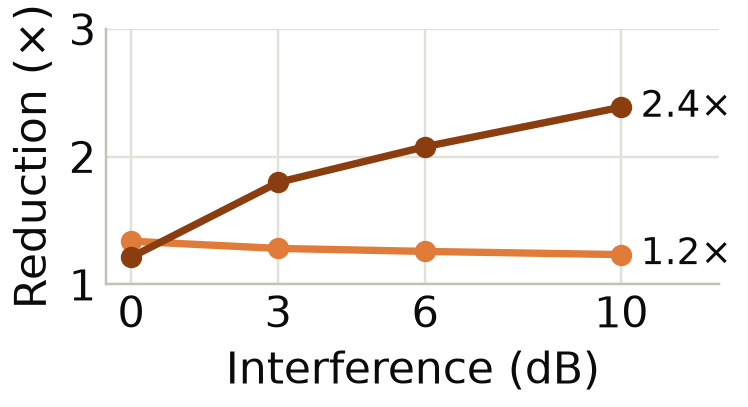
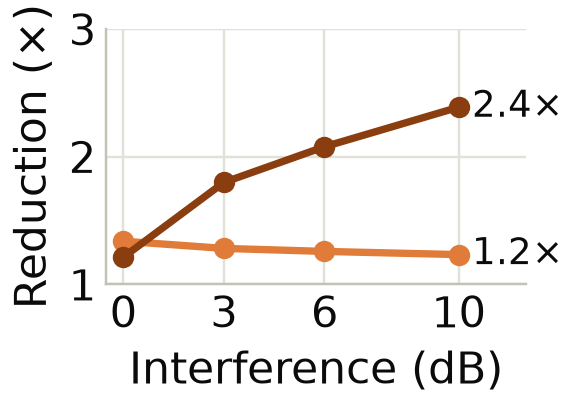
Motivation figure for the shortened paper: code blocks, concurrent runs and interference in one four-panel row (mot_control_legend; code-block and interference panels at the narrow panel size)

diff --git a/figures/paper/make_paper_figures.py b/figures/paper/make_paper_figures.py
@@ -298,18 +298,21 @@ def motivation_redecode():
     style(ax)
     save(fig, "mot_gputime")
 
-    fig, ax = plt.subplots(figsize=PANEL)
+    fig, ax = plt.subplots(figsize=PANEL4)   # a panel of the four-panel Figure 6
     series = {}
     for label, names in (("Macro Cell", runs("n3_uma_v3_cb", "n3_uma_v3_more")), ("Small Cell", runs("n1_umi_v3_cb"))):
         _, conv, rec, cb = traces(names)
         f = ~conv
         groups = [(1, 3), (4, 6), (7, 9), (10, 10)]
         series[label] = [100 * (rec[f & (cb >= lo) & (cb <= hi)]).mean() for lo, hi in groups]
-    bars(ax, ["1-3", "4-6", "7-9", "All 10"], series, CELL, fmt="{:.0f}")
+    bars(ax, ["1-3", "4-6", "7-9", "10"], series, CELL, values=False, width=0.4)
+    for i, (label, vals) in enumerate(series.items()):
+        for g, v in enumerate(vals):
+            ax.text(g + (i - 0.5) * 0.4, v + 1.5, f"{v:.0f}", ha="center", va="bottom", fontsize=VALUE - 4)
     ax.set_ylim(0, 118)
     ax.set_yticks([0, 50, 100])
     ax.set_ylabel("Recovered (%)", fontsize=13)
-    ax.set_xlabel("Failed Code Blocks of a TB")
+    ax.set_xlabel("Failed Code Blocks")
     style(ax)
     save(fig, "mot_codeblocks")
     legend("mot_time_legend", list(WAIT.items()) + list(CELL.items()), width=9.4)
@@ -430,7 +433,7 @@ def motivation_server():
         pub = runs(f"irc_{cell}_v3", f"ici_{cell}_inr3", f"ici_{cell}_inr6", f"ici_{cell}_inr10")
         ici = runs(f"ici_{cell}_v3_iciaware", f"ici_{cell}_inr3_iciaware", f"ici_{cell}_inr6_iciaware",
                    f"ici_{cell}_inr10_iciaware")
-        fig, ax = plt.subplots(figsize=PANEL)
+        fig, ax = plt.subplots(figsize=PANEL4)   # a panel of the four-panel Figure 6
         for label, names in (("NRx Trained without Interference", pub), ("NRx Trained with Interference", ici)):
             y = [merged([n])["resends_per_100"] / merged([n], "ours")["resends_per_100"] for n in names]
             ax.plot(inr, y, color=NRX[label], linewidth=2.4, marker="o", markersize=6)
@@ -445,6 +448,8 @@ def motivation_server():
         save(fig, name)
     legend("mot_gpu_legend", list(GPUS.items()))
     legend("mot_interference_legend", list(NRX.items()), width=8.0)
+    # Figure 6 combines the code blocks, the concurrent runs and the interference panels: one strip for both legends
+    legend("mot_control_legend", list(CELL.items()) + list(NRX.items()), width=11.3)
 
 
 if __name__ == "__main__":
